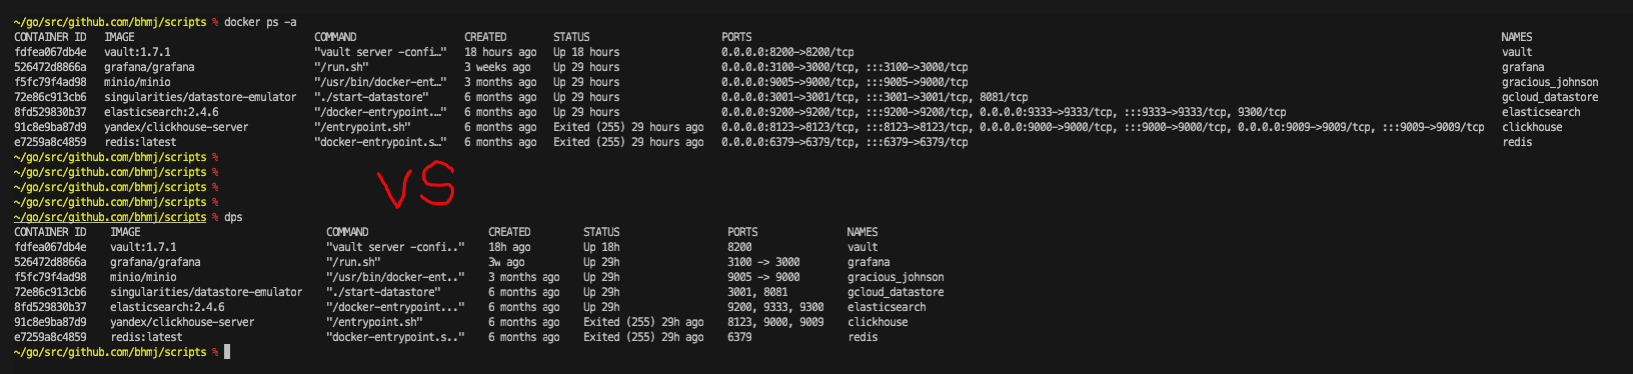
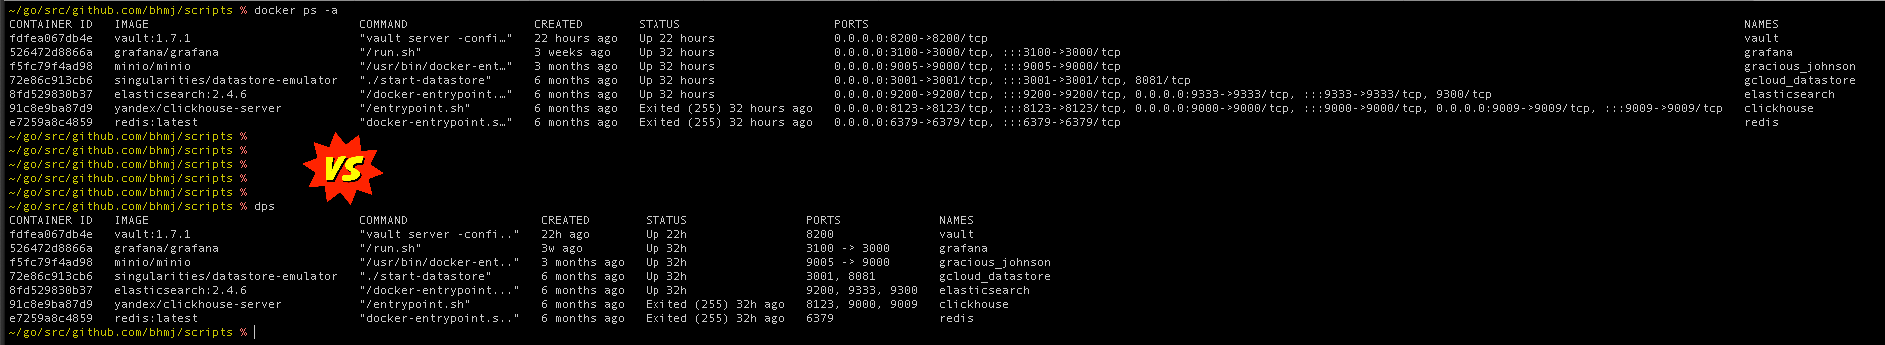
minor improvement

Changed region(s): [[0.0, 0.0, 1.0, 1.0]]

diff --git a/dps.py b/dps.py
@@ -4,7 +4,7 @@
 import fileinput
 import re
 
-MARGIN = 3
+MARGIN = 2
 
 # split line to columns
 def split_line(line, cols):
